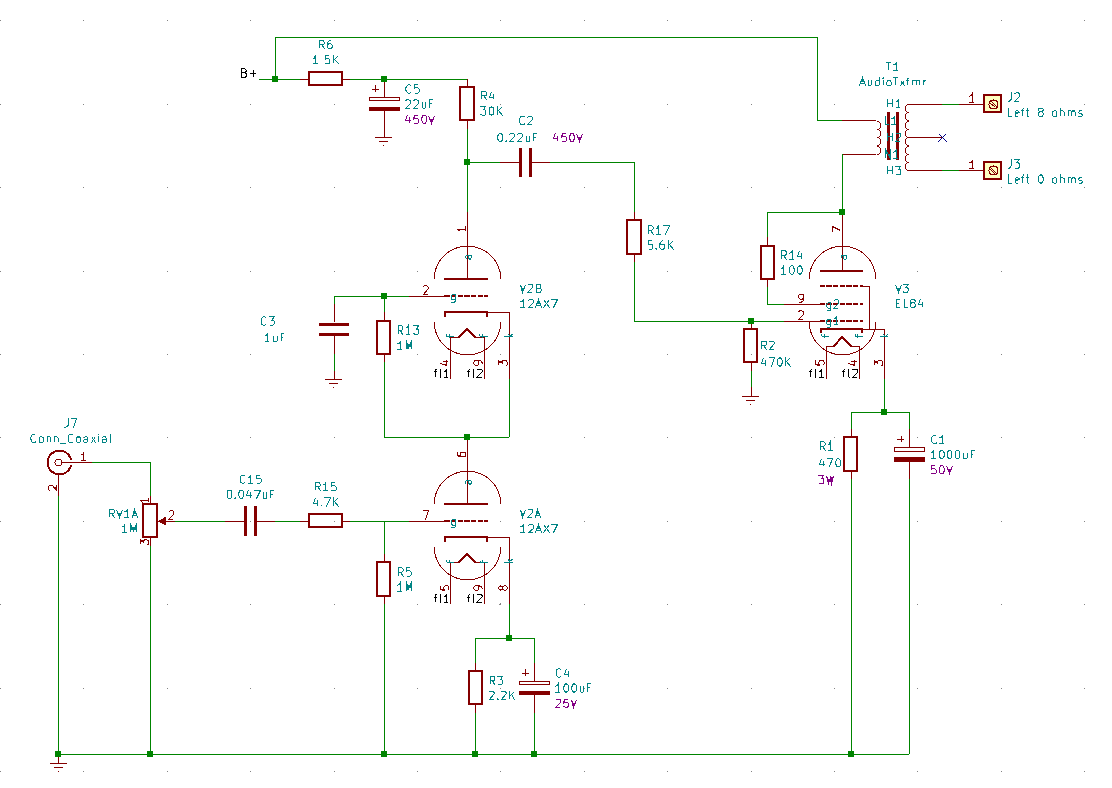
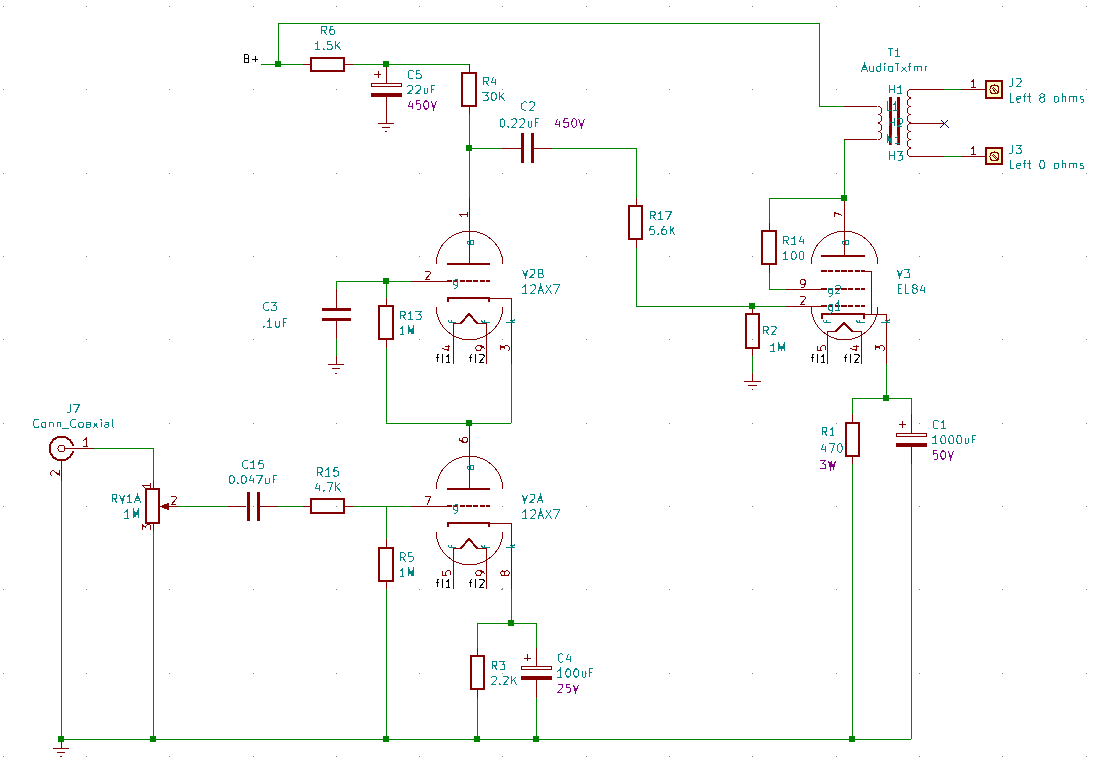
change EL84 grid leak resistor to 1M
In the day time, I sort of feel the amp is too quiet. That adding the 5.6k resistor inline has reduced the signal. This small resistance divide is like 98% the input. But that is still the 2% loss of signal. I think the gain stage of these preamp tubes is not very strong. And I read the EL84 does have a wider response to small changes in input impedance.

diff --git a/updated/README.md b/updated/README.md
@@ -117,6 +117,7 @@ I noticed after there was slight buzz on the left channel. Replace the preamp tu
 * Notice I had the A/B elements for V2, V5 switched in the schematic from how it is. Update the schematic.
 * I had made an error in schematic before, The (C3, C11) actually go to ground, not feedback from 12AX7 output. And (R2, R12) is actually a grid leak resistor for th EL84. Ok. good. I was just about to add one of those.
 * There is no grid stopper resistor between preamp output after the capacitor and the EL84. Add a 5.6K resistor.
+* Change the EL34 grid leak resistors (R2, R12) from 470K to 1M
 
 This all came about as I was trying to attach one of those VFD spectum analyzers. It needs 5VDC. I have a 7805 type regulator. Make a rectifier and filter cap and circuit board to connect to the unused 5VAC fillament supply. I see 5V when I test it. And measure 4.9V on the VFD.  Maybe for some reason the VFD requires more current than the regulator IC can supply. I will investigate later.
 
